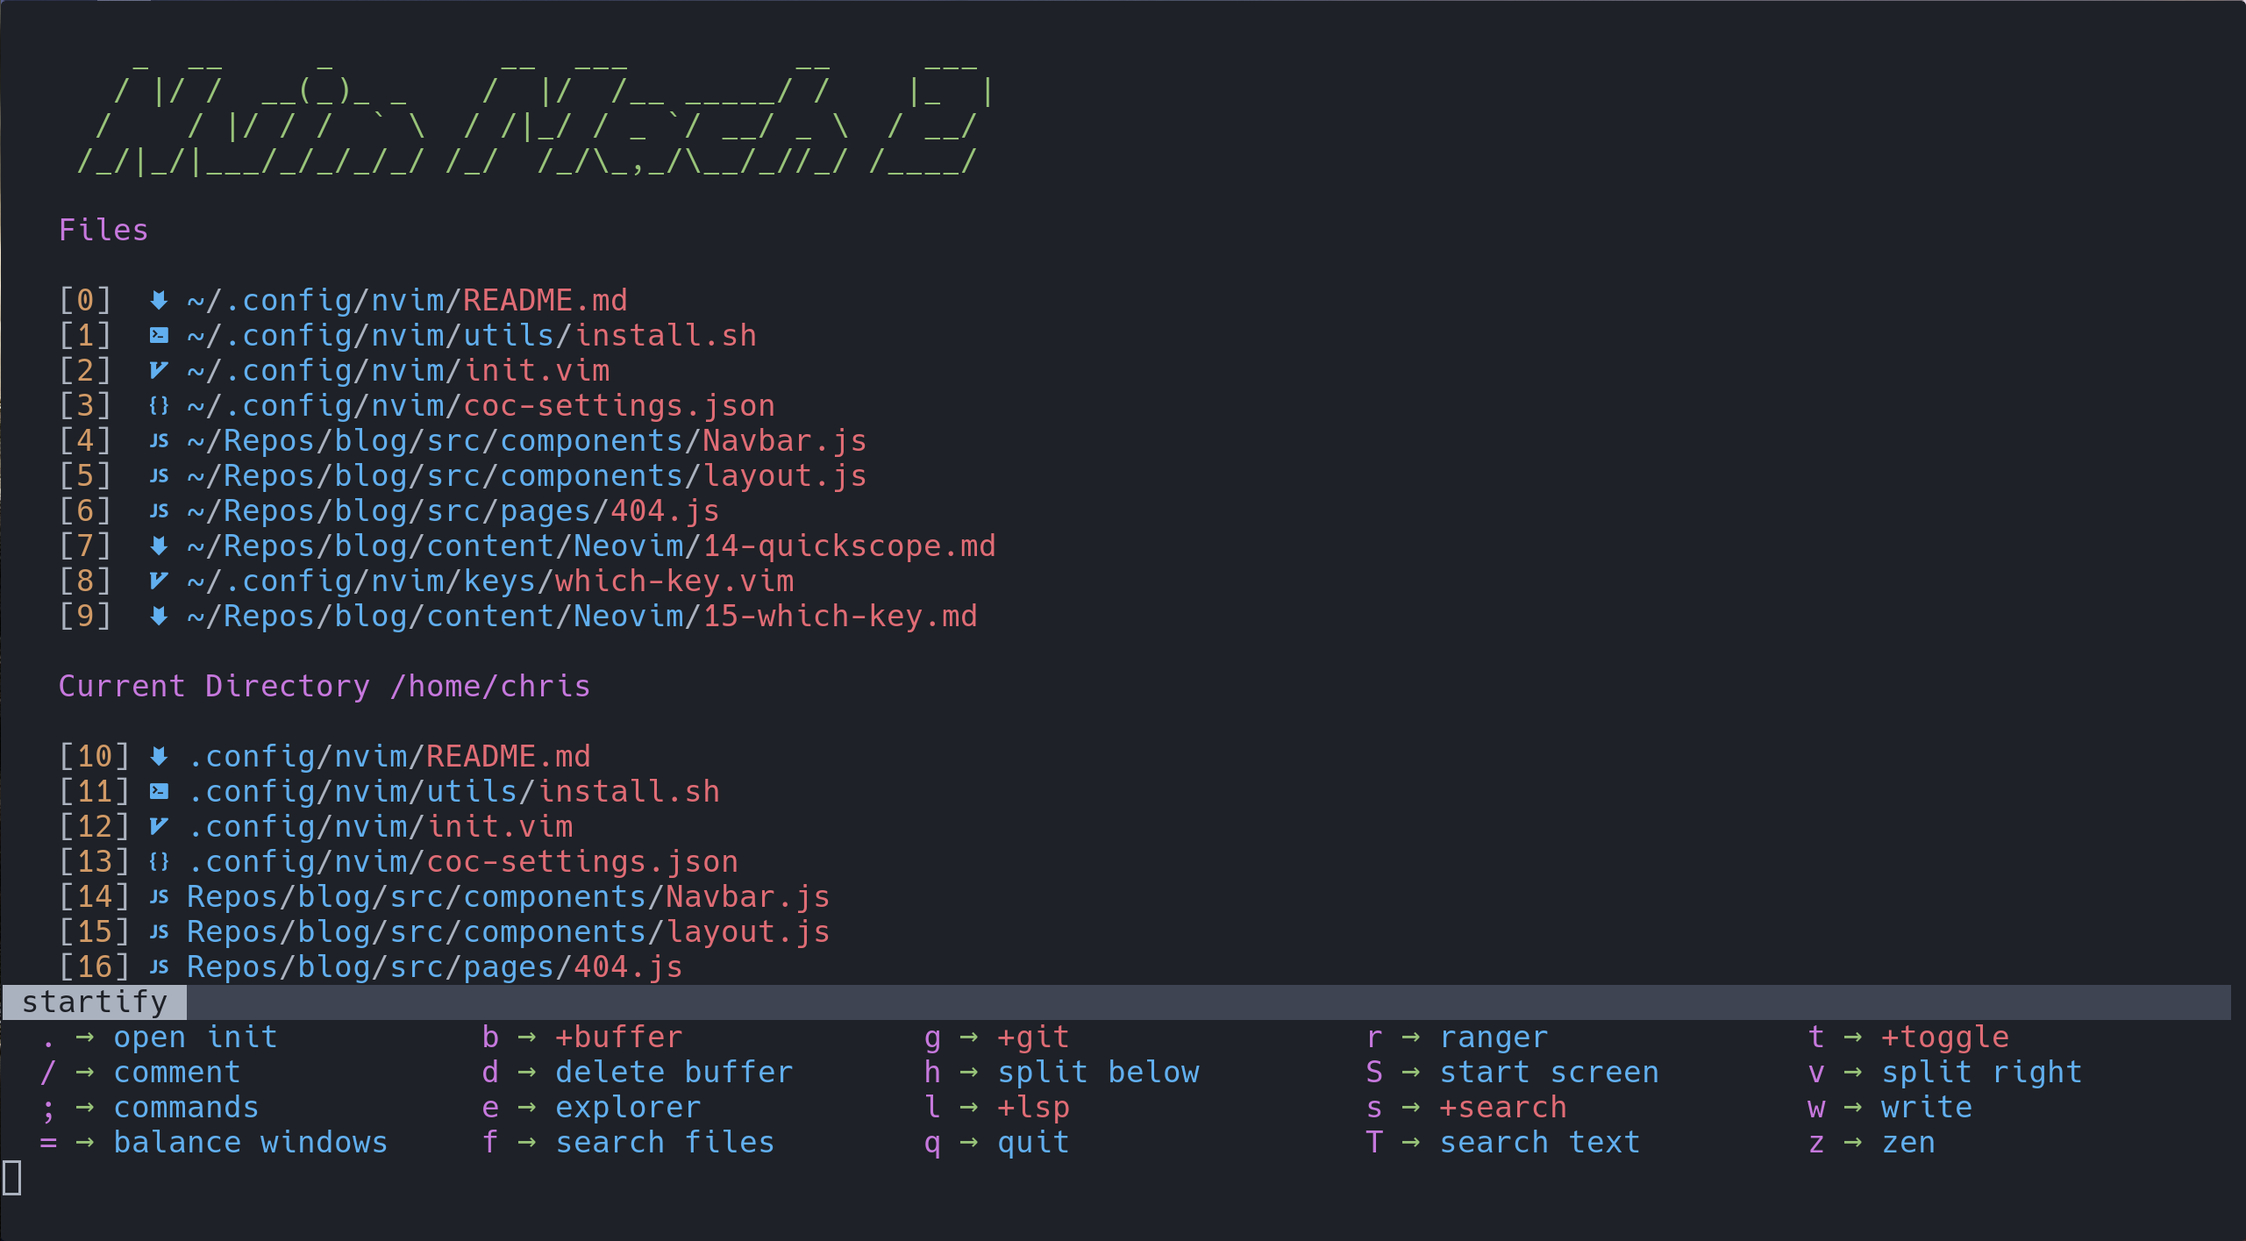
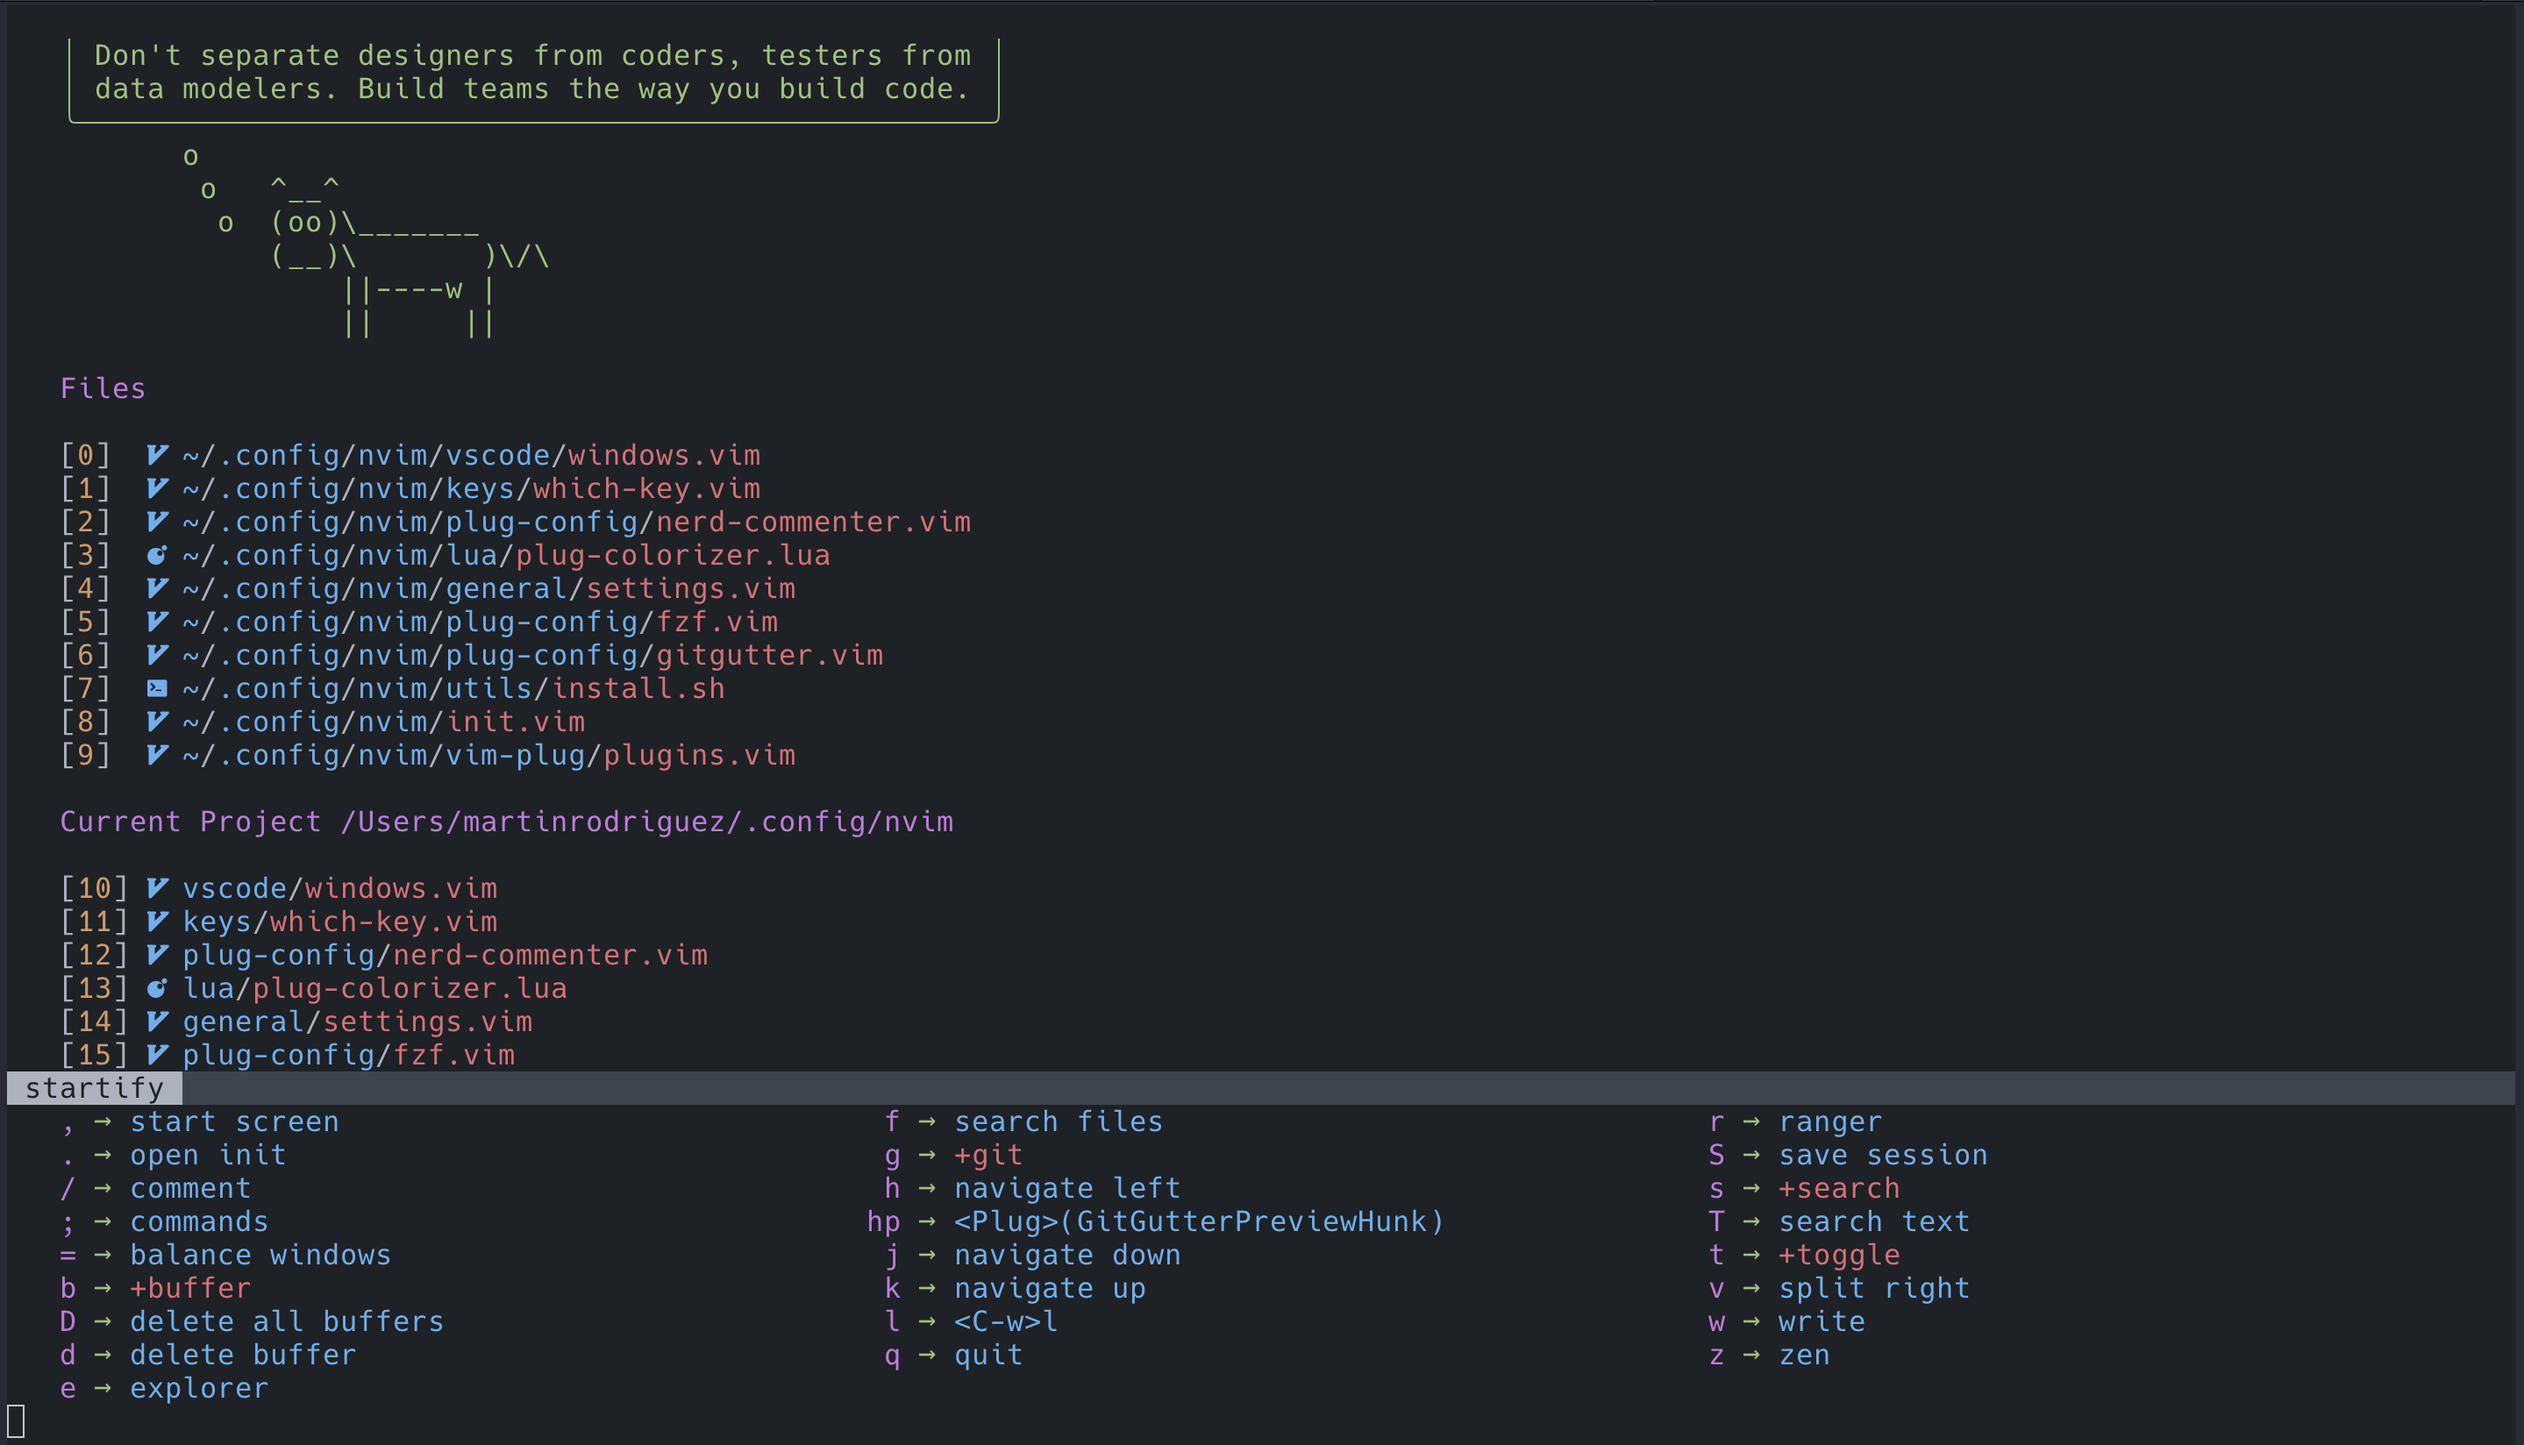
Uptaded image and gitignore.

diff --git a/README.md b/README.md
@@ -1,4 +1,4 @@
-# Nvim Mach 2
+# Nvim Config
 
 ![Nvim Mach 2 pic](./utils/images/nvim.png)
 
@@ -51,18 +51,6 @@ pip install pynvim
 npm i -g neovim
 ```
 
-## Install Neovim remote
-
-```
-pip install neovim-remote
-```
-
-This will install `nvr` to `~/.local/bin` so you will need to add the following to your `bashrc` or `zshrc`
-
-```
-export PATH=$HOME/.local/bin:$PATH
-```
-
 ## Install clipboard support
 
 - On mac pbcopy should be builtin
@@ -79,18 +67,6 @@ export PATH=$HOME/.local/bin:$PATH
   sudo pacman -S xsel
   ```
 
-## (Optional) Install python & node support using virtual environments
-
-Make sure to add these paths somewhere in your config
-
-```
-let g:python3_host_prog = expand("<path to python with pynvim installed>")
-let g:python3_host_prog = expand("~/.miniconda/envs/neovim/bin/python3.8") " <- example
-
-let g:node_host_prog = expand("<path to node with neovim installed>")
-let g:node_host_prog = expand("~/.nvm/versions/node/v12.16.1/bin/neovim-node-host") " <- example
-```
-
 ## List of programs you should install
 
 - ranger
@@ -99,10 +75,6 @@ let g:node_host_prog = expand("~/.nvm/versions/node/v12.16.1/bin/neovim-node-hos
 - silver_searcher
 - fd
 - universal-ctags
-- lazy git
-- lazy docker
-
-Explanations and installation instruction can be found on my blog
 
 ## Language Servers
 
@@ -126,20 +98,14 @@ Example:
     }
   }
   ```
+  
+## Added features
 
-## TODO
-
-- People asked about vimwiki I kinda hate it but maybe I'll add it
-- float term lazy git
-- spectre, or async task/run
-- setup custom paths
-- install script envsubst is your friend
-- add better whitespace plugin and a toggle, video about clean code maybe
-- snippets (coc snippets)
-- git messenger
-- neovide
-- setup global coc extensions to auto install
-
-## VSCode integration
-
-We will be integrating with VSCode using [this](https://github.com/asvetliakov/vscode-neovim)
+- Git bindings with leader + g, inspired on magit (Emacs)
+- Navigation between splits inside which key
+- Increased time window for the keystrokes
+- Vim surround installed and configured
+- Vim commentary installed and configured
+- Removed all remote configurations
+- Flutter language server added
+- Clojure tools added
